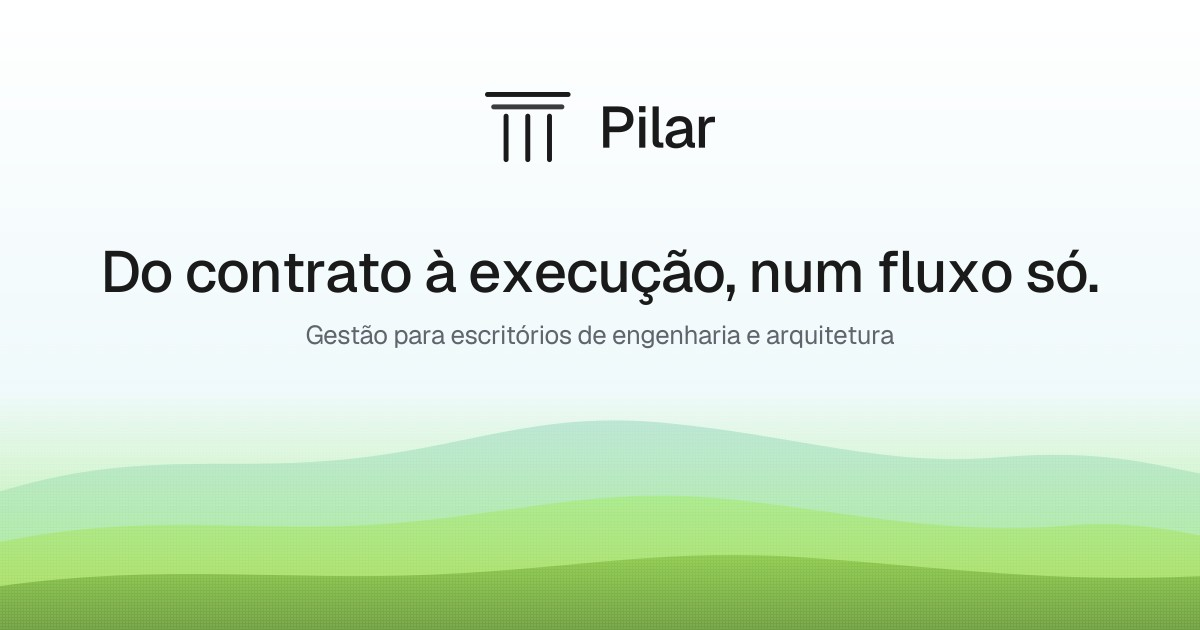
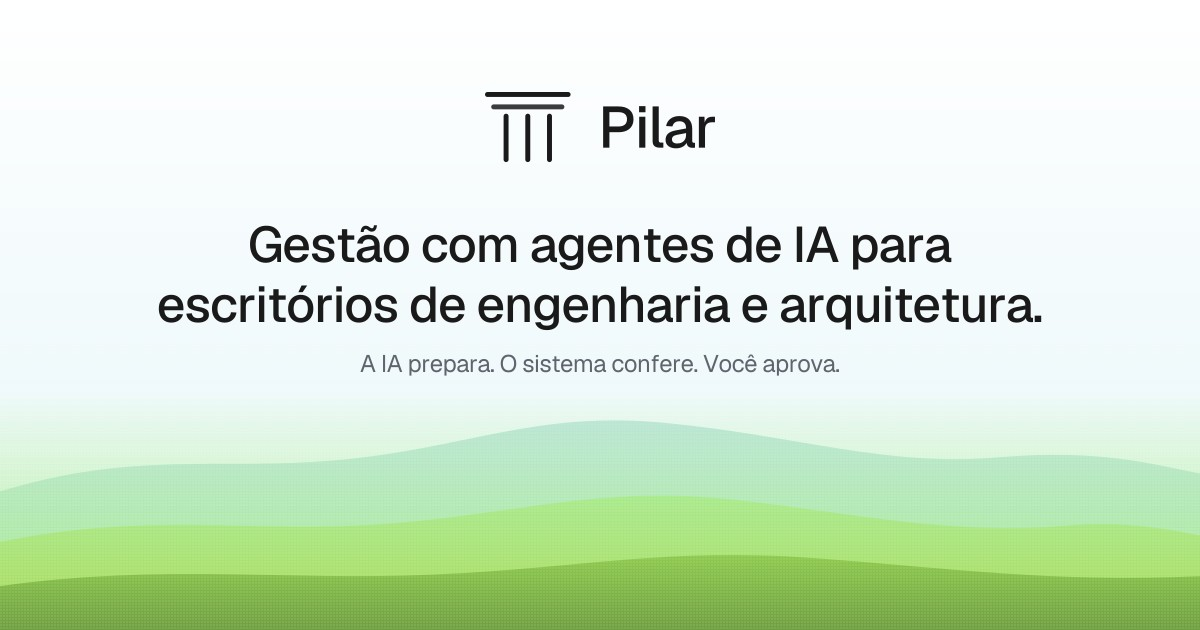
feat(brand): make "Gestão com agentes de IA..." the tagline
"Do contrato à execução, num fluxo só." is retired as the brand line. The new
tagline is "Gestão com agentes de IA para escritórios de engenharia e
arquitetura." across the app entry screens, landing hero subtitle, closing card
and footer, page metas and JSON-LD, og:image, llms.txt, CLAUDE.md, brand docs and
the sales agent. Copy tests now require the new line and reject the old one.

Claude-Session: https://claude.ai/code/session_013rHiKdxPn21s8tsuYgQ4Kh

Changed region(s): [[0.0617, 0.3619, 0.925, 0.6032]]

diff --git a/brand/guidelines.html b/brand/guidelines.html
@@ -78,13 +78,13 @@ footer{padding:40px 0 70px;border-top:1px solid var(--line);font-size:13px;color
 
 <section id="essencia"><div class="wrap">
   <div class="num">01</div><h2>Essência</h2>
-  <p class="lede">A Pilar é o sistema de gestão que leva o dado do contrato à execução num fluxo só, com agentes de IA que preparam o trabalho. A marca se comporta como o produto: precisa, sóbria, sem enfeite.</p>
+  <p class="lede">O Pilar é gestão com agentes de IA para escritórios de engenharia e arquitetura: os agentes preparam o trabalho, você aprova. A marca se comporta como o produto: precisa, sóbria, sem enfeite.</p>
   <div class="grid g3">
     <div class="card" style="padding:22px"><h3 style="margin:0 0 8px;font-size:18px">Técnico e calmo</h3><p style="margin:0;font-size:14px">Desenho de escritório de projeto: linha fina, muito branco, medida certa.</p></div>
     <div class="card" style="padding:22px"><h3 style="margin:0 0 8px;font-size:18px">O número primeiro</h3><p style="margin:0;font-size:14px">O dado que decide fica maior e mais escuro. O resto recua.</p></div>
     <div class="card" style="padding:22px"><h3 style="margin:0 0 8px;font-size:18px">Verde é ação</h3><p style="margin:0;font-size:14px">Um verde só, e ele aponta o próximo passo. Nunca cobre a página.</p></div>
   </div>
-  <p class="cap" style="margin-top:18px">Tagline: "Do contrato à execução, num fluxo só." Mensagens e voz em <a href="messaging.md">messaging.md</a> e <a href="voice-tone.md">voice-tone.md</a>.</p>
+  <p class="cap" style="margin-top:18px">Tagline: "Gestão com agentes de IA para escritórios de engenharia e arquitetura." Mensagens e voz em <a href="messaging.md">messaging.md</a> e <a href="voice-tone.md">voice-tone.md</a>.</p>
 </div></section>
 
 <section id="logotipo"><div class="wrap">
@@ -261,7 +261,7 @@ footer{padding:40px 0 70px;border-top:1px solid var(--line);font-size:13px;color
     <div>
       <div style="font:600 18px Inter,sans-serif;color:var(--ink)">pilarsoft.app</div>
       <div style="font:500 14px Inter,sans-serif;color:var(--muted);margin-bottom:8px">Pilar | Gestão para engenharia</div>
-      <div style="font:400 15px/1.45 Inter,sans-serif;color:var(--ink);max-width:52ch">Do contrato à execução, num fluxo só. Gestão com agentes de IA para escritórios de engenharia e arquitetura. Agende uma demo.</div>
+      <div style="font:400 15px/1.45 Inter,sans-serif;color:var(--ink);max-width:52ch">Gestão com agentes de IA para escritórios de engenharia e arquitetura. A IA prepara, você aprova. Agende uma demo.</div>
       <div style="display:flex;gap:18px;margin-top:18px"><div style="text-align:center"><img src="assets/social/destaque-como-funciona.png" alt="" style="width:64px;height:64px;border-radius:50%;object-fit:cover;display:block"><div style="font:500 12px Inter,sans-serif;margin-top:6px">Como funciona</div></div><div style="text-align:center"><img src="assets/social/destaque-clientes.png" alt="" style="width:64px;height:64px;border-radius:50%;object-fit:cover;display:block"><div style="font:500 12px Inter,sans-serif;margin-top:6px">Clientes</div></div><div style="text-align:center"><img src="assets/social/destaque-dicas.png" alt="" style="width:64px;height:64px;border-radius:50%;object-fit:cover;display:block"><div style="font:500 12px Inter,sans-serif;margin-top:6px">Dicas</div></div><div style="text-align:center"><img src="assets/social/destaque-bastidores.png" alt="" style="width:64px;height:64px;border-radius:50%;object-fit:cover;display:block"><div style="font:500 12px Inter,sans-serif;margin-top:6px">Bastidores</div></div><div style="text-align:center"><img src="assets/social/destaque-planos.png" alt="" style="width:64px;height:64px;border-radius:50%;object-fit:cover;display:block"><div style="font:500 12px Inter,sans-serif;margin-top:6px">Planos</div></div></div>
     </div>
   </div>

diff --git a/apps/marketing/index.html b/apps/marketing/index.html
@@ -9,7 +9,7 @@
     <link rel="apple-touch-icon" sizes="180x180" href="/apple-touch-icon.png" />
     <meta
       name="description"
-      content="Do contrato à execução, num fluxo só. Gestão com agentes de IA para escritórios de engenharia e arquitetura: proposta, projeto, obra e financeiro."
+      content="Gestão com agentes de IA para escritórios de engenharia e arquitetura: proposta, projeto, obra e financeiro conectados, com a aprovação da equipe."
     />
     <meta name="author" content="Pilar" />
     <meta name="robots" content="index, follow" />
@@ -18,10 +18,10 @@
          fallback de @font-face caso Geist falhe, e não deve ser baixada de
          propósito. Preload forçava os dois downloads em toda visita. -->
     <link rel="preload" href="/fonts/geist-variable.woff2" as="font" type="font/woff2" crossorigin />
-    <meta property="og:title" content="Pilar | Do contrato à execução, num fluxo só." />
+    <meta property="og:title" content="Pilar | Gestão com agentes de IA para engenharia e arquitetura" />
     <meta
       property="og:description"
-      content="Proposta, projeto, obra e financeiro num fluxo só, com agentes de IA que preparam o trabalho e esperam a aprovação da equipe."
+      content="Proposta, projeto, obra e financeiro conectados, com agentes de IA que preparam o trabalho e esperam a aprovação da equipe."
     />
     <meta property="og:type" content="website" />
     <meta property="og:url" content="https://www.pilarsoft.com.br/" />
@@ -31,13 +31,13 @@
     <meta property="og:image:type" content="image/jpeg" />
     <meta property="og:image:width" content="1200" />
     <meta property="og:image:height" content="630" />
-    <meta property="og:image:alt" content="Logo do Pilar sobre morros verdes, com a frase: do contrato à execução, num fluxo só" />
+    <meta property="og:image:alt" content="Logo do Pilar sobre morros verdes, com a frase: gestão com agentes de IA para escritórios de engenharia e arquitetura" />
 
     <meta name="twitter:card" content="summary_large_image" />
-    <meta name="twitter:title" content="Pilar | Do contrato à execução, num fluxo só." />
+    <meta name="twitter:title" content="Pilar | Gestão com agentes de IA para engenharia e arquitetura" />
     <meta
       name="twitter:description"
-      content="Proposta, projeto, obra e financeiro num fluxo só, com agentes de IA que preparam o trabalho e esperam a aprovação da equipe."
+      content="Proposta, projeto, obra e financeiro conectados, com agentes de IA que preparam o trabalho e esperam a aprovação da equipe."
     />
     <meta name="twitter:image" content="https://www.pilarsoft.com.br/og-image-v2.jpg" />
     <script type="application/ld+json">
@@ -69,7 +69,7 @@
             "applicationCategory": "BusinessApplication",
             "operatingSystem": "Web",
             "url": "https://www.pilarsoft.com.br/",
-            "description": "Sistema de gestão com agentes de IA para escritórios de engenharia e arquitetura: do contrato à execução, proposta, projeto, obra e financeiro num único fluxo, com aprovação da equipe."
+            "description": "Sistema de gestão com agentes de IA para escritórios de engenharia e arquitetura: proposta, projeto, obra e financeiro conectados, com a aprovação da equipe."
           }
         ]
       }

diff --git a/index.html b/index.html
@@ -13,13 +13,13 @@
     <meta name="apple-mobile-web-app-status-bar-style" content="default" />
     <meta name="apple-mobile-web-app-title" content="Pilar" />
     <link rel="apple-touch-icon" sizes="180x180" href="/apple-touch-icon.png" />
-    <meta name="description" content="Do contrato à execução, num fluxo só. Gestão com agentes de IA para escritórios de engenharia e arquitetura: proposta, projeto, obra e financeiro." />
+    <meta name="description" content="Gestão com agentes de IA para escritórios de engenharia e arquitetura: proposta, projeto, obra e financeiro conectados, com a aprovação da equipe." />
     <meta name="author" content="Pilar" />
     <meta name="robots" content="noindex, nofollow" />
     <link rel="preconnect" href="https://fonts.googleapis.com">
     <link rel="preconnect" href="https://fonts.gstatic.com" crossorigin>
-<link href="https://fonts.googleapis.com/css2?family=Inter:ital,wght@0,300;0,400;0,500;0,600;0,700;1,300;1,400;1,500&display=swap" rel="stylesheet">    <meta property="og:title" content="Pilar | Do contrato à execução, num fluxo só." />
-    <meta property="og:description" content="Proposta, projeto, obra e financeiro num fluxo só, com agentes de IA que preparam o trabalho e esperam a aprovação da equipe." />
+<link href="https://fonts.googleapis.com/css2?family=Inter:ital,wght@0,300;0,400;0,500;0,600;0,700;1,300;1,400;1,500&display=swap" rel="stylesheet">    <meta property="og:title" content="Pilar | Gestão com agentes de IA para engenharia e arquitetura" />
+    <meta property="og:description" content="Proposta, projeto, obra e financeiro conectados, com agentes de IA que preparam o trabalho e esperam a aprovação da equipe." />
     <meta property="og:type" content="website" />
     <meta property="og:url" content="https://pilarsoft.com.br/" />
     <meta property="og:site_name" content="Pilar" />
@@ -28,11 +28,11 @@
     <meta property="og:image:type" content="image/jpeg" />
     <meta property="og:image:width" content="1200" />
     <meta property="og:image:height" content="630" />
-    <meta property="og:image:alt" content="Logo do Pilar sobre morros verdes, com a frase: do contrato à execução, num fluxo só" />
+    <meta property="og:image:alt" content="Logo do Pilar sobre morros verdes, com a frase: gestão com agentes de IA para escritórios de engenharia e arquitetura" />
 
     <meta name="twitter:card" content="summary_large_image" />
-    <meta name="twitter:title" content="Pilar | Do contrato à execução, num fluxo só." />
-    <meta name="twitter:description" content="Proposta, projeto, obra e financeiro num fluxo só, com agentes de IA que preparam o trabalho e esperam a aprovação da equipe." />
+    <meta name="twitter:title" content="Pilar | Gestão com agentes de IA para engenharia e arquitetura" />
+    <meta name="twitter:description" content="Proposta, projeto, obra e financeiro conectados, com agentes de IA que preparam o trabalho e esperam a aprovação da equipe." />
     <meta name="twitter:image" content="https://pilarsoft.com.br/og-image-v2.jpg" />
     <!-- Google Tag Manager -->
     <script src="/gtm-init.js" defer></script>

diff --git a/apps/marketing/src/pages/Home.tsx b/apps/marketing/src/pages/Home.tsx
@@ -20,11 +20,11 @@ export function Home() {
   usePageMeta({
     titulo: "Pilar | Gestão com agentes de IA para engenharia e arquitetura",
     descricao:
-      "Do contrato à execução, num fluxo só. Gestão com agentes de IA para escritórios de engenharia e arquitetura: proposta, projeto, obra e financeiro.",
+      "Gestão com agentes de IA para escritórios de engenharia e arquitetura: proposta, projeto, obra e financeiro conectados, com a aprovação da equipe.",
     caminho: "/",
-    ogTitulo: "Pilar | Do contrato à execução, num fluxo só.",
+    ogTitulo: "Pilar | Gestão com agentes de IA para engenharia e arquitetura",
     ogDescricao:
-      "Proposta, projeto, obra e financeiro num fluxo só, com agentes de IA que preparam o trabalho e esperam a aprovação da equipe.",
+      "Proposta, projeto, obra e financeiro conectados, com agentes de IA que preparam o trabalho e esperam a aprovação da equipe.",
   });
 
   return (

diff --git a/apps/marketing/src/copy.test.ts b/apps/marketing/src/copy.test.ts
@@ -93,7 +93,7 @@ describe("copy da landing", () => {
     expect(trechos.length).toBeGreaterThan(500);
     expect(tudo).toContain("Agendar demonstração");
     expect(tudo).toContain("créditos de IA por mês");
-    expect(tudo).toContain("Do contrato à execução");
+    expect(tudo).toContain("Gestão com agentes de IA");
   });
 
   it.each(PROIBIDOS.map((p) => [p.padrao.source, p] as const))("não usa /%s/", (_fonte, { motivo, padrao }) => {
@@ -103,7 +103,8 @@ describe("copy da landing", () => {
 
   it("a tagline da marca aparece na home e no fecho", () => {
     const tudo = trechos.map((t) => t.texto).join("\n");
-    expect(tudo).toMatch(/Do contrato à execução,? num fluxo só/);
+    expect(tudo).toContain("Gestão com agentes de IA para escritórios de engenharia e arquitetura");
+    expect(tudo).not.toMatch(/num fluxo só/);
     expect(tudo).toContain("A IA prepara");
   });
 });

diff --git a/apps/marketing/src/components/hero/scene.ts b/apps/marketing/src/components/hero/scene.ts
@@ -4,9 +4,9 @@
  * A cena é uma sessão contínua no Pilar conduzida por um agente: ele escreve o
  * pedido em português, monta o lançamento, pede aprovação, o lead fecha e vira
  * projeto, a receita entra no financeiro, a margem e o cronograma do projeto
- * aparecem, e a obra recebe o diário do campo. É a tagline inteira ("do
- * contrato à execução, num fluxo só") em vinte segundos, sem o visitante clicar
- * em nada.
+ * aparecem, e a obra recebe o diário do campo. É a tagline ("gestão com agentes
+ * de IA para escritórios de engenharia e arquitetura") mostrada em vinte segundos,
+ * sem o visitante clicar em nada.
  *
  * As coordenadas são em pixels de um palco fixo de 1120x680, que o `HeroScene`
  * escala por CSS para caber no container. Assim a posição do cursor é um número

diff --git a/apps/marketing/src/components/CTASection.tsx b/apps/marketing/src/components/CTASection.tsx
@@ -33,8 +33,8 @@ export function CTASection() {
           </div>
 
           <div className="relative">
-            <h2 className="text-[58px] max-[1100px]:text-[44px] max-[850px]:text-[30px] max-[420px]:text-[26px] font-medium tracking-[-0.035em] leading-[1.06] text-ink mb-5 max-w-[20ch] mx-auto">
-              Do contrato à execução, <span className="italic">num fluxo só.</span>
+            <h2 className="text-[58px] max-[1100px]:text-[44px] max-[850px]:text-[30px] max-[420px]:text-[26px] font-medium tracking-[-0.035em] leading-[1.06] text-ink mb-5 max-w-[24ch] mx-auto text-balance">
+              Gestão com agentes de IA para escritórios de <span className="italic">engenharia e arquitetura.</span>
             </h2>
 
             <m.p

diff --git a/apps/marketing/src/components/HeroSection.tsx b/apps/marketing/src/components/HeroSection.tsx
@@ -85,8 +85,8 @@ export function HeroSection() {
             transition={{ duration: 0.7, ease: EASE.out, delay: 0.55 }}
             className="text-[14px] md:text-[17px] text-ink-soft max-w-xl mx-auto mb-8 md:mb-9 leading-relaxed px-2"
           >
-            Do contrato à execução num fluxo só: prazos, entregas e governança do projeto. Agentes de IA preparam, você
-            aprova.
+            Gestão com agentes de IA para escritórios de engenharia e arquitetura. Prazos, entregas e governança do
+            projeto: a IA prepara, você aprova.
           </m.p>
 
           <m.div

diff --git a/src/components/AuthPromessa.test.tsx b/src/components/AuthPromessa.test.tsx
@@ -29,7 +29,9 @@ describe("AuthPromessa", () => {
   it("mostra a tagline, a assinatura dos agentes e os três pontos, nas palavras da marca", () => {
     render(<AuthPromessa />);
 
-    expect(screen.getByText("Do contrato à execução, num fluxo só.")).toBeInTheDocument();
+    expect(
+      screen.getByText("Gestão com agentes de IA para escritórios de engenharia e arquitetura.")
+    ).toBeInTheDocument();
     expect(screen.getByText("A IA prepara. O sistema confere. Você aprova.")).toBeInTheDocument();
     expect(screen.getAllByRole("listitem")).toHaveLength(3);
   });

diff --git a/apps/marketing/src/components/LandingFooter.tsx b/apps/marketing/src/components/LandingFooter.tsx
@@ -40,8 +40,8 @@ export function LandingFooter() {
           <div>
             <Logo size="sm" className="text-ink mb-5" />
             <p className="text-[13.5px] text-ink/80 max-w-xs leading-relaxed">
-              Do contrato à execução, num fluxo só. Feito para escritórios de engenharia e arquitetura, com agentes que
-              preparam o trabalho e esperam o seu aval.
+              Gestão com agentes de IA para escritórios de engenharia e arquitetura. Os agentes preparam o trabalho e
+              esperam o seu aval.
             </p>
           </div>
 

diff --git a/src/pages/CompanySetup.tsx b/src/pages/CompanySetup.tsx
@@ -596,7 +596,7 @@ export default function CompanySetup() {
             </div>
 
             <blockquote className="text-3xl font-light leading-snug">
-              "Do contrato à execução, num fluxo só."
+              "Gestão com agentes de IA para escritórios de engenharia e arquitetura."
             </blockquote>
 
             <p className="text-sm text-white/70">Gestão, projetos e obras no mesmo lugar. Comece por onde dói mais.</p>

diff --git a/src/pages/ProfileSetup.tsx b/src/pages/ProfileSetup.tsx
@@ -612,7 +612,7 @@ export default function ProfileSetup() {
             </div>
 
             <blockquote className="text-3xl font-light leading-snug">
-              "Do contrato à execução, num fluxo só."
+              "Gestão com agentes de IA para escritórios de engenharia e arquitetura."
             </blockquote>
 
             <p className="text-sm text-white/70">Vamos deixar sua conta pronta com o essencial. Leva poucos minutos.</p>
